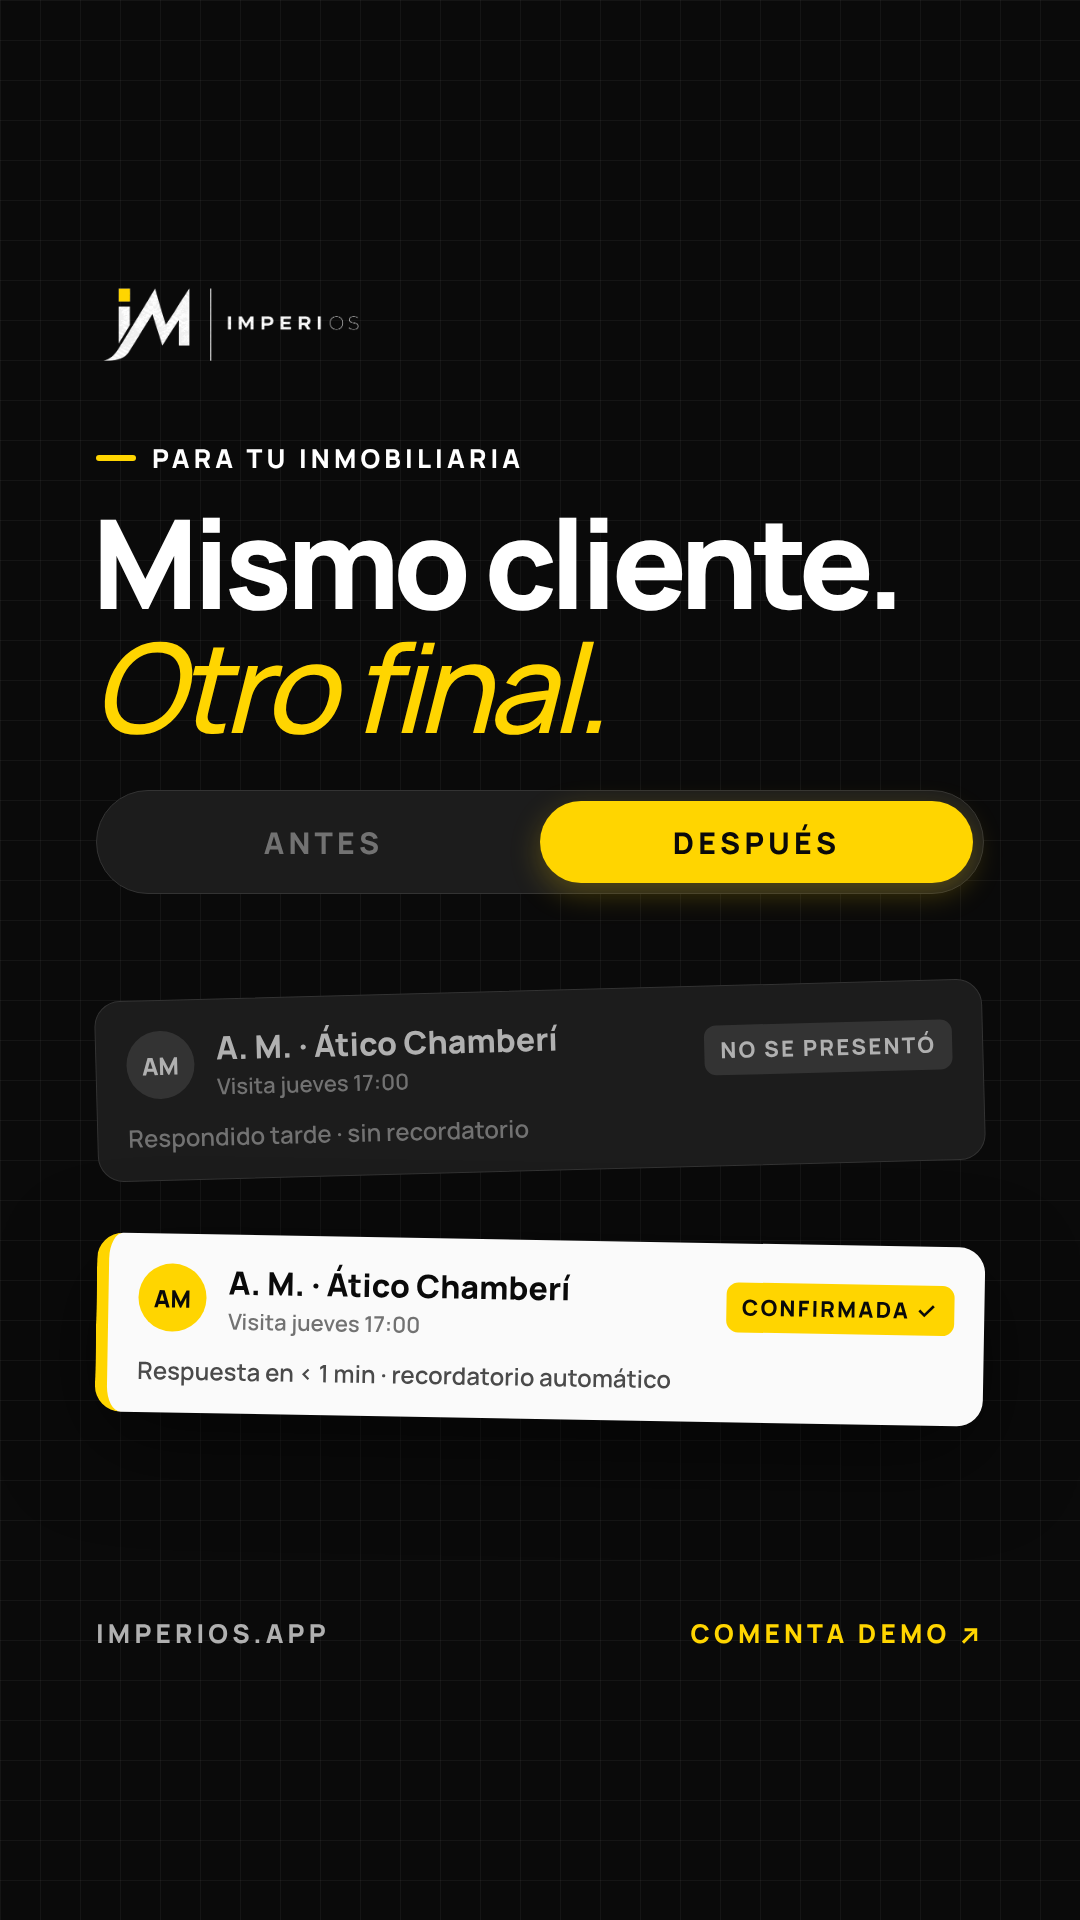
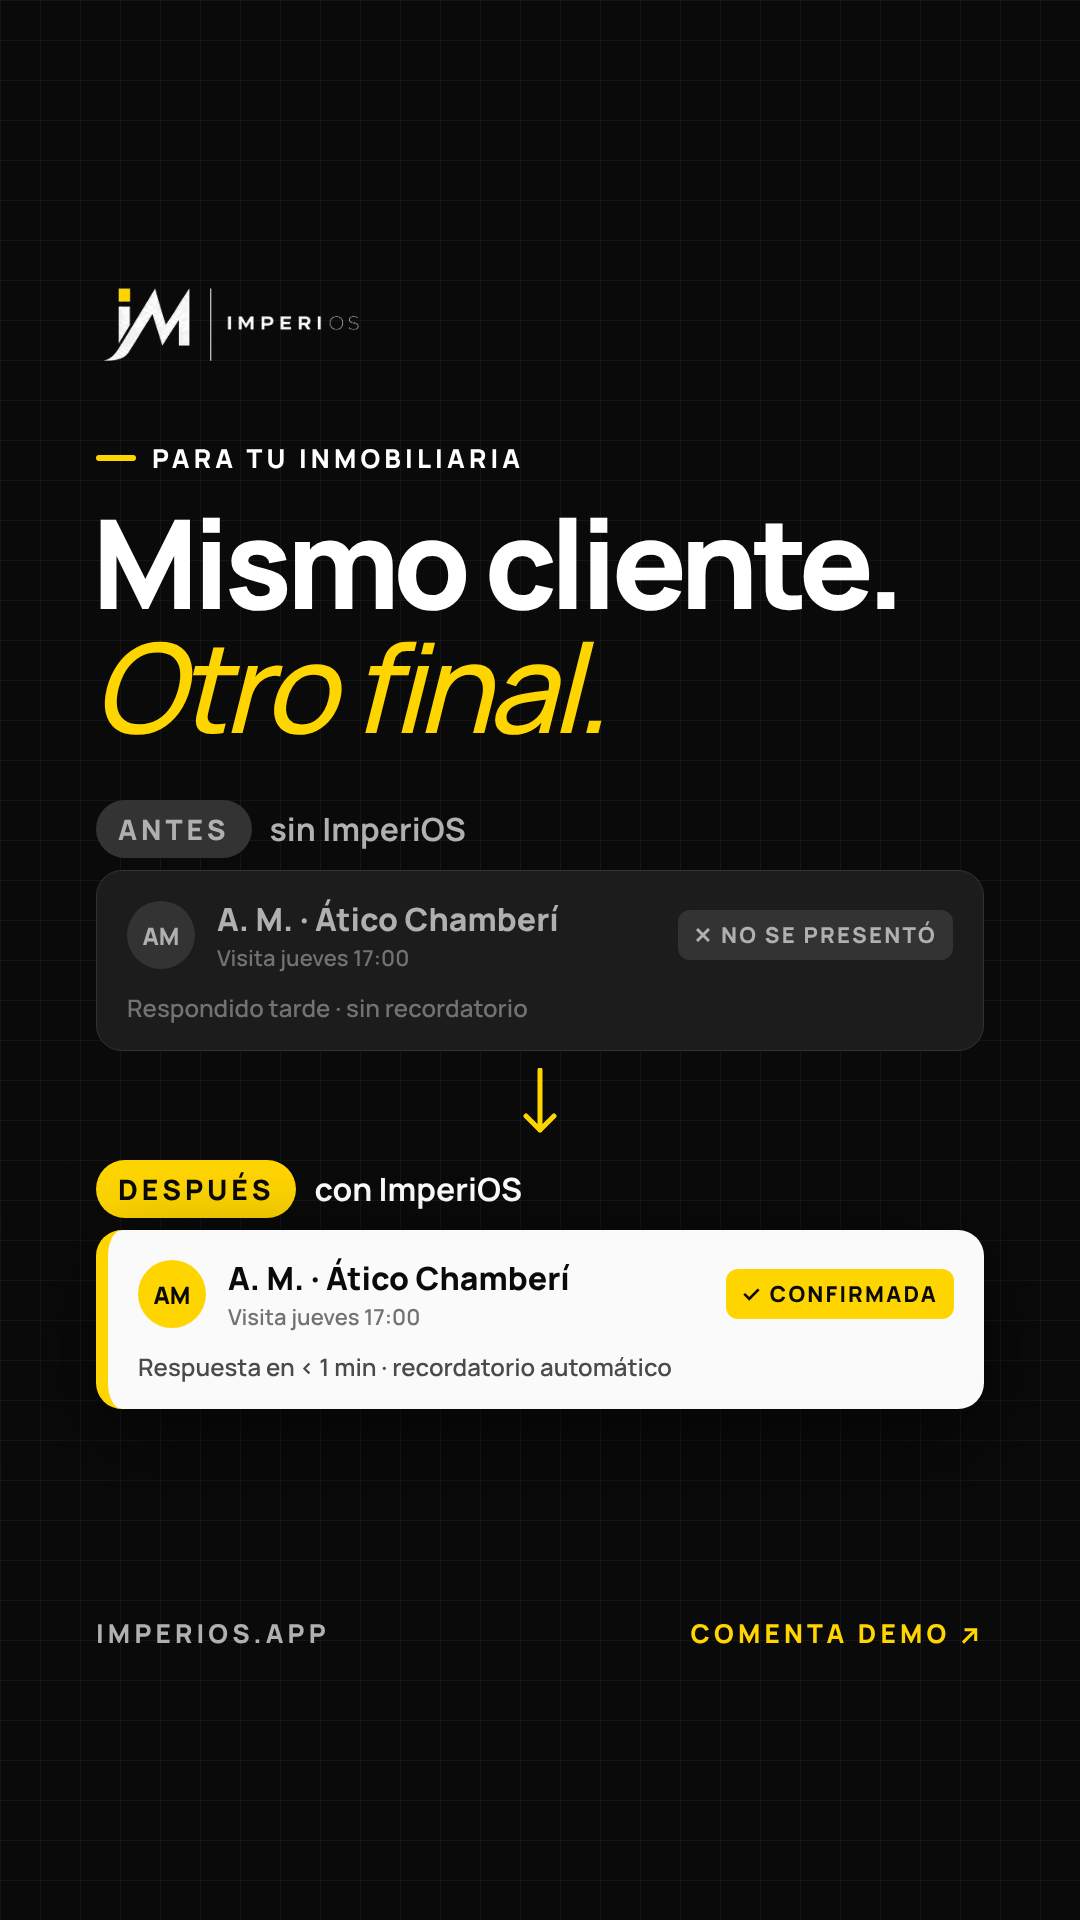
R6 portada B: fichas etiquetadas «ANTES · sin ImperiOS» / «DESPUÉS · con ImperiOS» en lugar del interruptor
Claude-Session: https://claude.ai/code/session_01GUwAx98LwDLChJJ4cX9B1a

Changed region(s): [[0.0917, 0.4062, 0.9167, 0.75], [0.6417, 0.5312, 0.8861, 0.5625], [0.0917, 0.4062, 0.2139, 0.4375]]

diff --git a/ADV/ImperiOS Ad/preview/src/portada-r6b.html b/ADV/ImperiOS Ad/preview/src/portada-r6b.html
@@ -4,7 +4,7 @@
 <meta charset="utf-8">
 <title>Portada Reel — R6 opción B</title>
 <!-- Portada 1080×1920 del Reel R6, opción B: «Mismo cliente. Otro final.» Fondo oscuro, logo en blanco,
-     interruptor ANTES / DESPUÉS y las dos fichas del mismo cliente (no se presentó / visita confirmada).
+     las dos fichas etiquetadas «ANTES · sin ImperiOS» y «DESPUÉS · con ImperiOS» del mismo cliente (no se presentó / visita confirmada).
      Amarillo sólido #FFD500. Todo dentro del recorte 3:4 de la cuadrícula del perfil (y 240–1680). -->
 <style>
 @font-face { font-family: "Manrope"; src: url("manrope-latin-variable.woff2") format("woff2"); font-weight: 200 800; }
@@ -29,6 +29,8 @@ h1 em { font-style: italic; font-weight: 500; color: var(--y); }
 .av { width: 68px; height: 68px; border-radius: 50%; display: grid; place-items: center; font-weight: 800; font-size: 24px; flex: none; }
 .st { margin-left: auto; font-size: 22px; font-weight: 800; letter-spacing: .1em; padding: 10px 16px; border-radius: 12px; white-space: nowrap; }
 .sub { margin-top: 18px; font-size: 24px; font-weight: 600; display: flex; align-items: center; gap: 12px; }
+.sec { left: 96px; display: flex; align-items: center; gap: 18px; font-weight: 700; font-size: 32px; }
+.sec .pl { padding: 10px 22px; border-radius: 999px; font-weight: 800; font-size: 28px; letter-spacing: .14em; }
 .foot { position: absolute; left: 96px; right: 96px; top: 1615px; display: flex; justify-content: space-between; font-weight: 800; font-size: 26px; letter-spacing: .16em; }
 </style>
 </head>
@@ -38,25 +40,27 @@ h1 em { font-style: italic; font-weight: 500; color: var(--y); }
 <div class="abs lbl" style="left:96px;top:440px;color:#fff"><i></i>PARA TU INMOBILIARIA</div>
 <h1>Mismo cliente.<br><em>Otro final.</em></h1>
 
-<!-- interruptor ANTES / DESPUÉS -->
-<div class="abs toggle"><span style="color:var(--ink-600)">ANTES</span><span style="background:var(--y);color:var(--ink-950);box-shadow:0 10px 30px rgba(255,213,0,.25)">DESPUÉS</span></div>
-
-<!-- ANTES: no se presentó -->
-<div class="card" style="top:990px;background:var(--ink-900);border:1.5px solid var(--ink-800);transform:rotate(-1.5deg)">
+<!-- ANTES · sin ImperiOS: no se presentó -->
+<div class="abs sec" style="top:800px"><span class="pl" style="background:var(--ink-800);color:var(--ink-500)">ANTES</span><span style="color:var(--ink-500)">sin ImperiOS</span></div>
+<div class="card" style="top:870px;background:var(--ink-900);border:1.5px solid var(--ink-800)">
   <div class="row">
     <div class="av" style="background:var(--ink-800);color:var(--ink-500)">AM</div>
     <div><div style="font-size:32px;font-weight:800;color:var(--ink-500)">A. M. · Ático Chamberí</div><div style="font-size:22px;color:var(--ink-600);font-weight:600;margin-top:2px">Visita jueves 17:00</div></div>
-    <span class="st" style="background:var(--ink-800);color:var(--ink-500)">NO SE PRESENTÓ</span>
+    <span class="st" style="background:var(--ink-800);color:var(--ink-500)">✕ NO SE PRESENTÓ</span>
   </div>
   <div class="sub" style="color:var(--ink-600)">Respondido tarde · sin recordatorio</div>
 </div>
 
-<!-- DESPUÉS: visita confirmada -->
-<div class="card" style="top:1240px;background:var(--ink-50);color:var(--ink-950);border-left:12px solid var(--y);box-shadow:0 30px 90px rgba(0,0,0,.5);transform:rotate(1deg)">
+<!-- flecha del antes al después -->
+<svg class="abs" style="left:520px;top:1068px" width="40" height="70" viewBox="0 0 40 70"><path d="M20 2v60M6 48l14 14 14-14" stroke="#FFD500" stroke-width="5" fill="none" stroke-linecap="round" stroke-linejoin="round"/></svg>
+
+<!-- DESPUÉS · con ImperiOS: visita confirmada -->
+<div class="abs sec" style="top:1160px"><span class="pl" style="background:var(--y);color:var(--ink-950)">DESPUÉS</span><span style="color:#fff">con ImperiOS</span></div>
+<div class="card" style="top:1230px;background:var(--ink-50);color:var(--ink-950);border-left:12px solid var(--y);box-shadow:0 30px 90px rgba(0,0,0,.5)">
   <div class="row">
     <div class="av" style="background:var(--y)">AM</div>
     <div><div style="font-size:32px;font-weight:800">A. M. · Ático Chamberí</div><div style="font-size:22px;color:var(--ink-600);font-weight:600;margin-top:2px">Visita jueves 17:00</div></div>
-    <span class="st" style="background:var(--y);color:var(--ink-950)">CONFIRMADA ✓</span>
+    <span class="st" style="background:var(--y);color:var(--ink-950)">✓ CONFIRMADA</span>
   </div>
   <div class="sub" style="color:var(--ink-700)">Respuesta en &lt; 1 min · recordatorio automático</div>
 </div>
